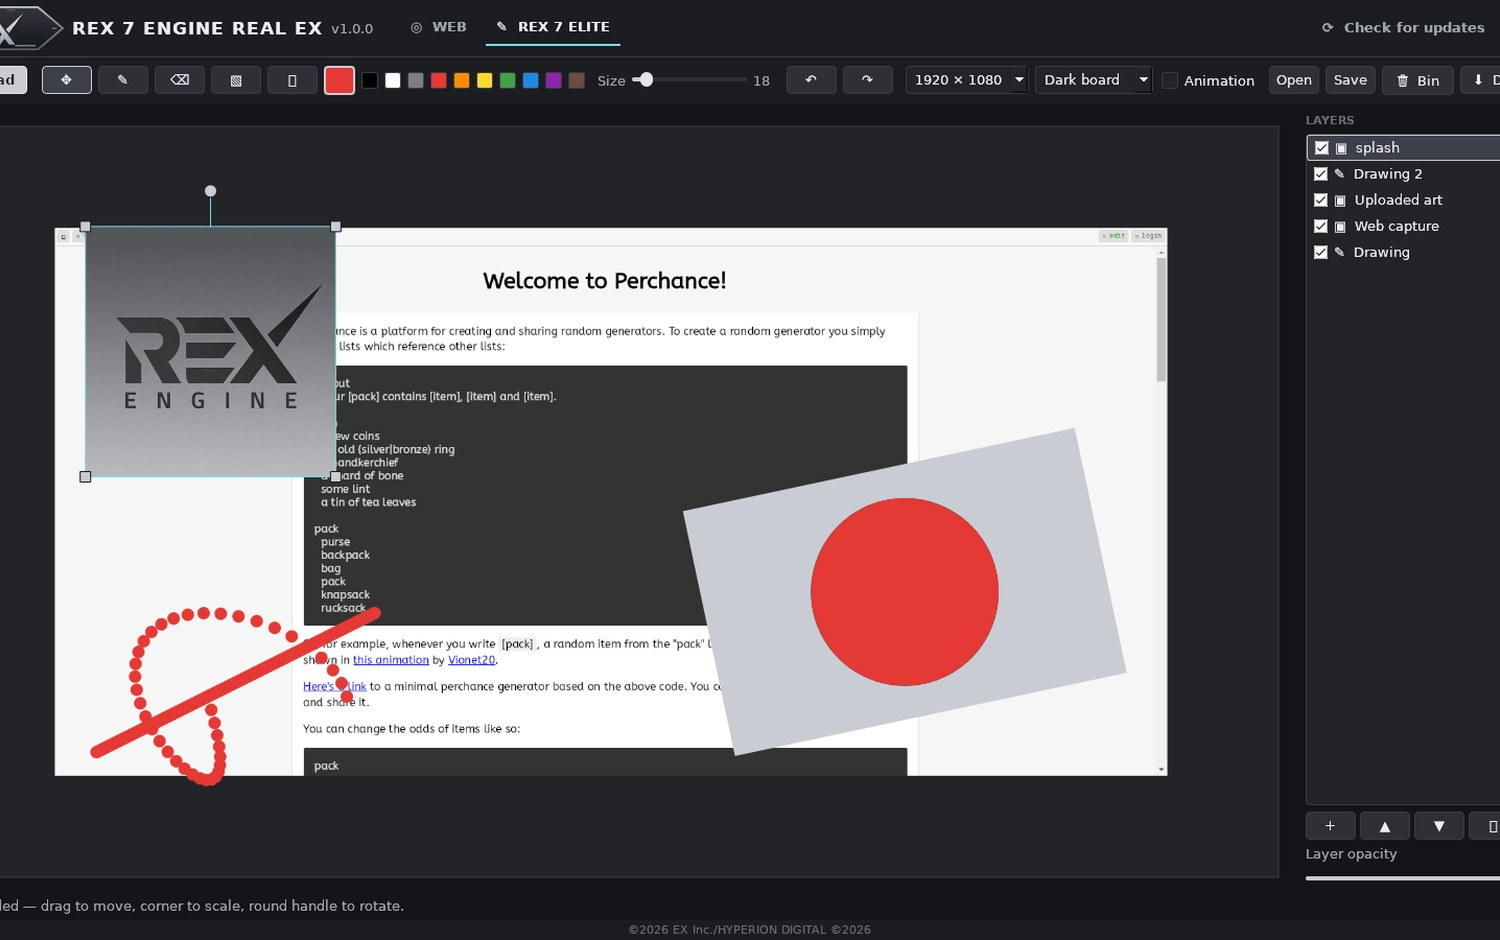
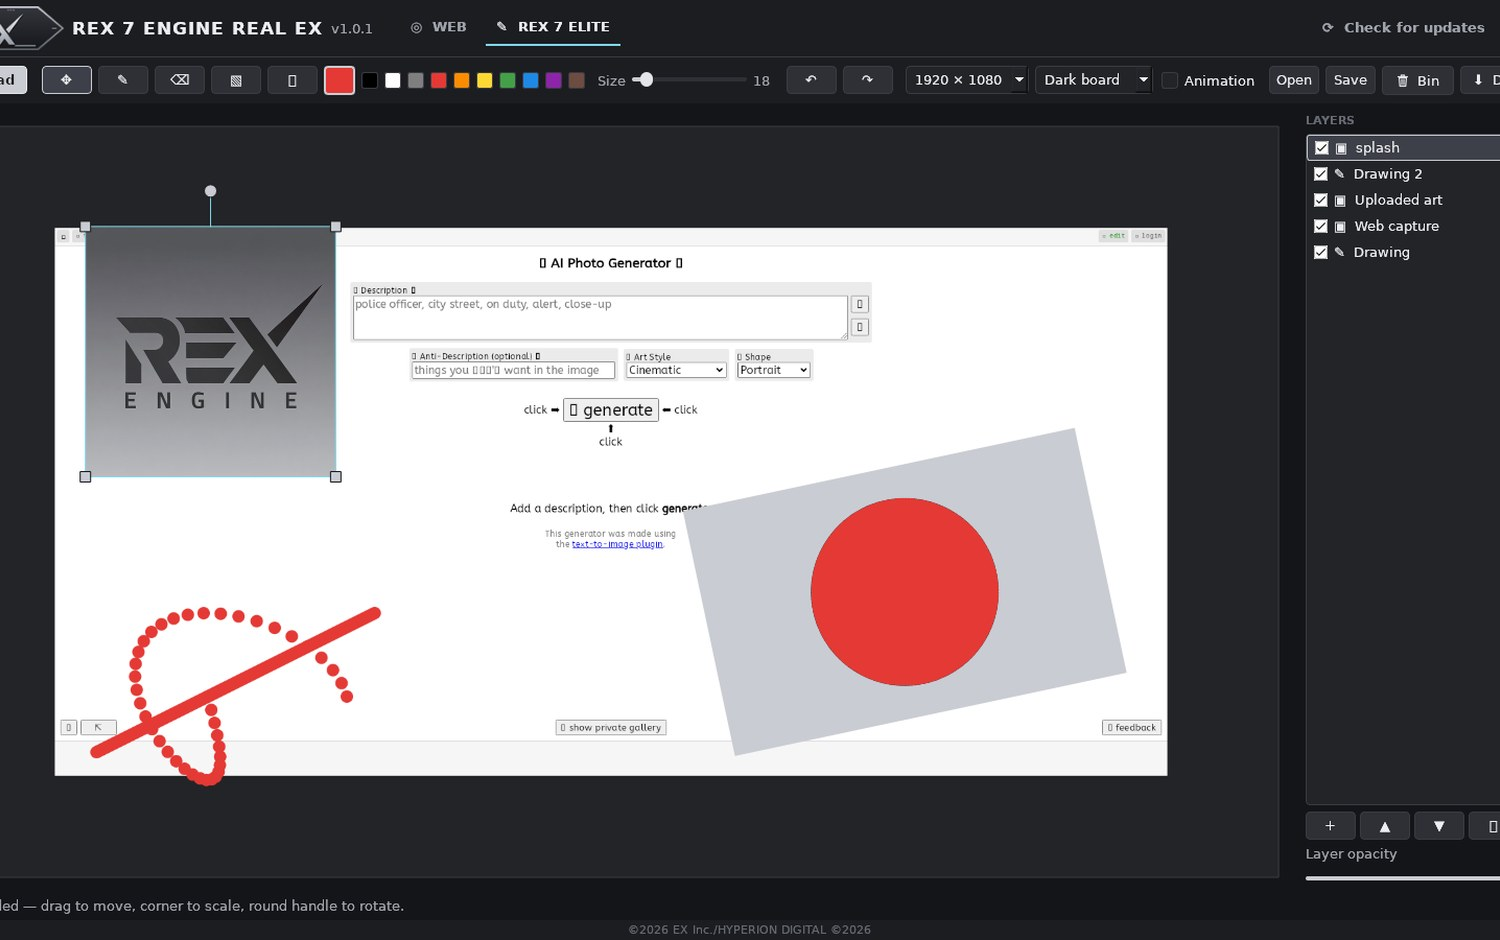
v1.0.1: start page and Home -> perchance.org/ai-photo-generator; store shots retaken

Changed region(s): [[0.184, 0.2777, 0.6133, 0.833], [0.7667, 0.2777, 0.7973, 0.4011], [0.736, 0.7713, 0.7667, 0.8021]]

diff --git a/rex7.py b/rex7.py
@@ -3,11 +3,11 @@
 import json, os, sys, threading, time, urllib.request, re
 
 APP = "REX 7 ENGINE REAL EX"
-APP_VERSION = "1.0.0"
+APP_VERSION = "1.0.1"
 COPYRIGHT = "\u00a92026 EX Inc./HYPERION DIGITAL \u00a92026"
 REPO = "Teobokki/rex7-engine"
 UPDATE_URL = "https://raw.githubusercontent.com/%s/main/latest.json" % REPO
-HOME_URL = "https://perchance.org"
+HOME_URL = "https://perchance.org/ai-photo-generator"
 
 
 def is_wine():
@@ -135,7 +135,7 @@ class Main(QMainWindow):
         self.b_back = nb("\u25c0", "Back (Alt+Left)", self.view.back)
         self.b_fwd = nb("\u25b6", "Forward (Alt+Right)", self.view.forward)
         nb("\u27f3", "Reload (F5)", self.view.reload)
-        nb("\u2302", "Home \u2014 perchance.org", self.home)
+        nb("\u2302", "Home \u2014 perchance.org/ai-photo-generator", self.home)
         self.addr = QLineEdit(); self.addr.setObjectName("addr"); self.addr.returnPressed.connect(self.go); nh.addWidget(self.addr, 1)
         self.title = QLabel(""); self.title.setObjectName("muted"); self.title.setMaximumWidth(320); nh.addWidget(self.title)
         b_imp = QPushButton("\u2b07  Import to board"); b_imp.setObjectName("accent"); b_imp.setToolTip("Capture this page onto the current REX 7 ELITE frame")

diff --git a/rex7_elite.py b/rex7_elite.py
@@ -889,6 +889,6 @@ class EliteBoard(QWidget):
             self.export_gif(os.path.join(out, "test.gif")); self.export_mp4(os.path.join(out, "test.mp4"))
             self.export_seq(os.path.join(out, "seq")); self.save_project(os.path.join(out, "test.rex7"))
             self.open_project(os.path.join(out, "test.rex7")); self.goto(3)
-            self.say("Self-test exports OK")
+            self.say("")
         except Exception as ex:
             self.say("Self-test export error: %s" % ex)

diff --git a/README.md b/README.md
@@ -1,6 +1,6 @@
 # REX 7 ENGINE REAL EX
 
-perchance.org runs in a bundled web engine, so no system browser runtime is needed. The app also includes **REX 7 ELITE**, an image board with optional frame animation.
+perchance.org/ai-photo-generator (start page and Home) runs in a bundled web engine, so no system browser runtime is needed. The app also includes **REX 7 ELITE**, an image board with optional frame animation.
 
 **Engine choice:** a self-contained Chromium-based engine (PySide6 6.7.3 / QtWebEngine) ships inside the app folder. It doesn't use the system WebView2 Evergreen runtime. Profile data (cookies, local storage, cache) is kept in `%LOCALAPPDATA%\REX 7 ENGINE REAL EX`.
 

diff --git a/RELEASE_NOTES_1.0.1.md b/RELEASE_NOTES_1.0.1.md
@@ -1,0 +1,8 @@
+## REX 7 ENGINE REAL EX 1.0.1
+
+- The app now opens on **perchance.org/ai-photo-generator**, and the Home button goes there too.
+- Store screenshots retaken.
+
+**Install:** run `REX-7-ENGINE-REAL-EX-Setup-1.0.1.exe` (current user, no admin), or run `REX-7-ENGINE-REAL-EX-Portable-1.0.1.exe` directly, with no install.
+
+©2026 EX Inc./HYPERION DIGITAL ©2026
